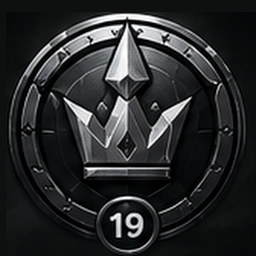
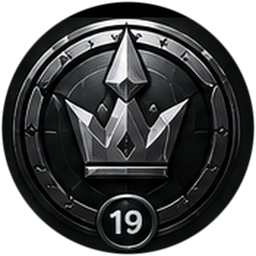
fix: médailles — bords coupés reconstruits par symétrie, masque rond transparent, plus de barre sombre (v4)

diff --git a/src/pages/MonNox.tsx b/src/pages/MonNox.tsx
@@ -36,7 +36,7 @@ function xpNeeded(level: number) { return level >= 100 ? 0 : 60 + 5 * level; }
 function totalXpTo(level: number) { let x=0; for(let i=1;i<level;i++) x += xpNeeded(i); return x; }
 function levelFromXp(xp:number){ let level=1, left=Math.max(0,xp); while(level<100 && left>=xpNeeded(level)){ left-=xpNeeded(level); level++; } return level; }
 function RankMedal({rank, unlocked=true, active=false, size=86}:{rank:number;unlocked?:boolean;active?:boolean;size?:number}) {
-  const src = `/nox-ranks/rank-${String(rank).padStart(2, '0')}.png?v=3`;
+  const src = `/nox-ranks/rank-${String(rank).padStart(2, '0')}.png?v=4`;
 
   return (
     <div style={{
